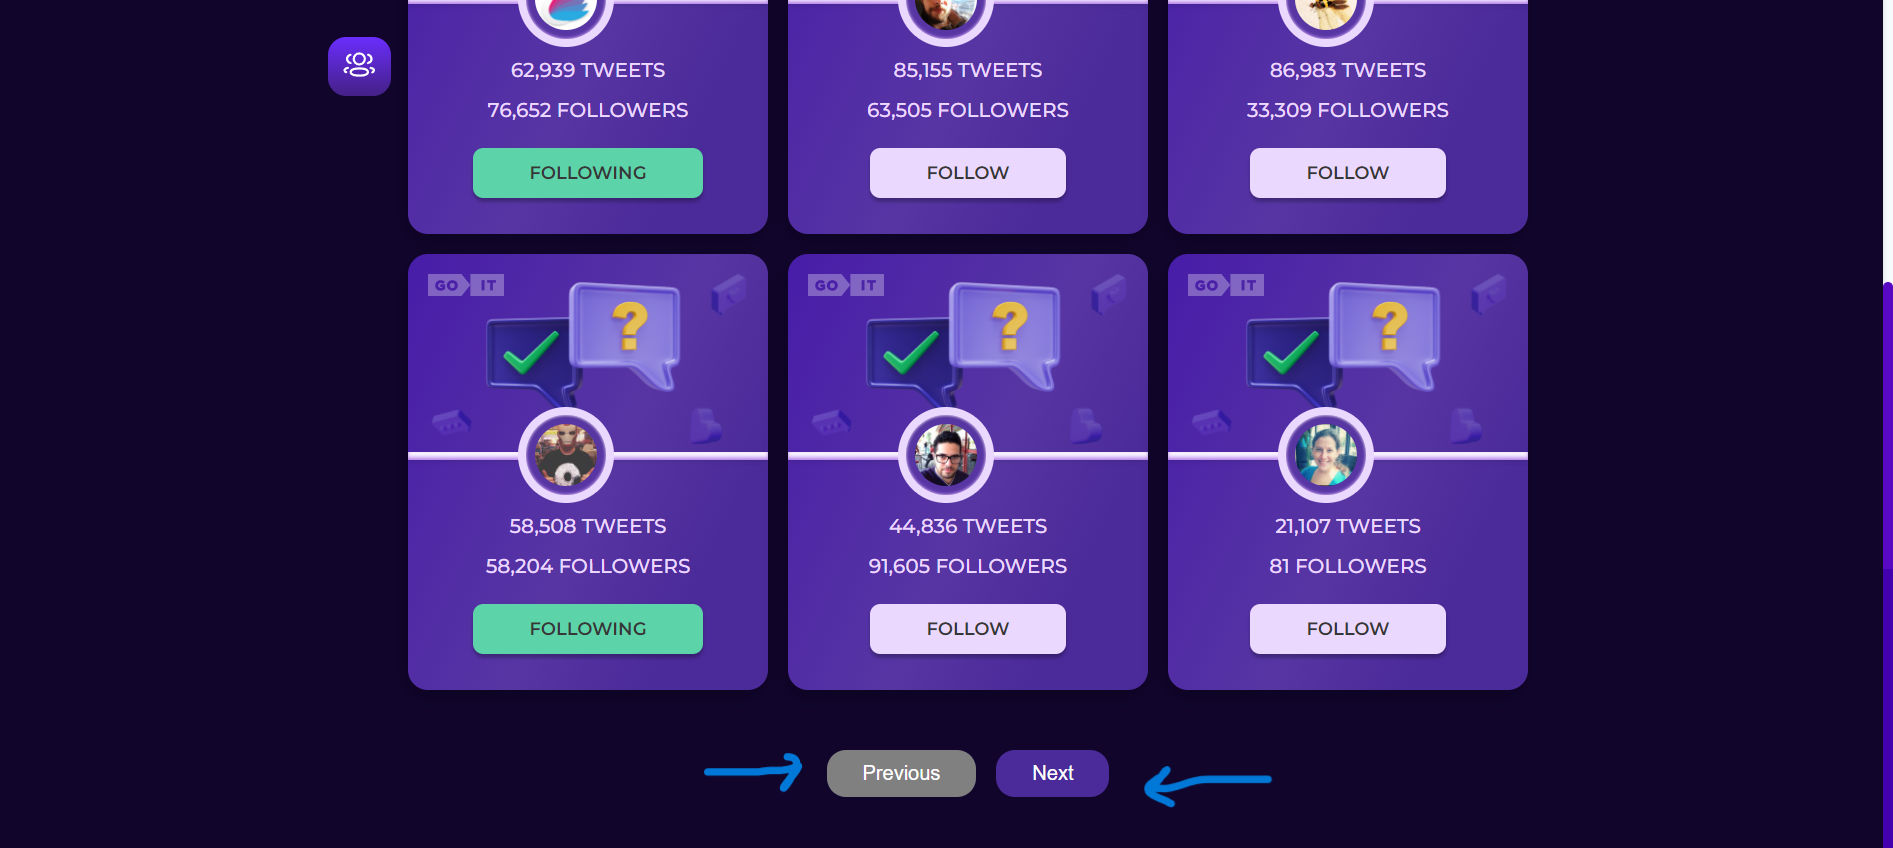
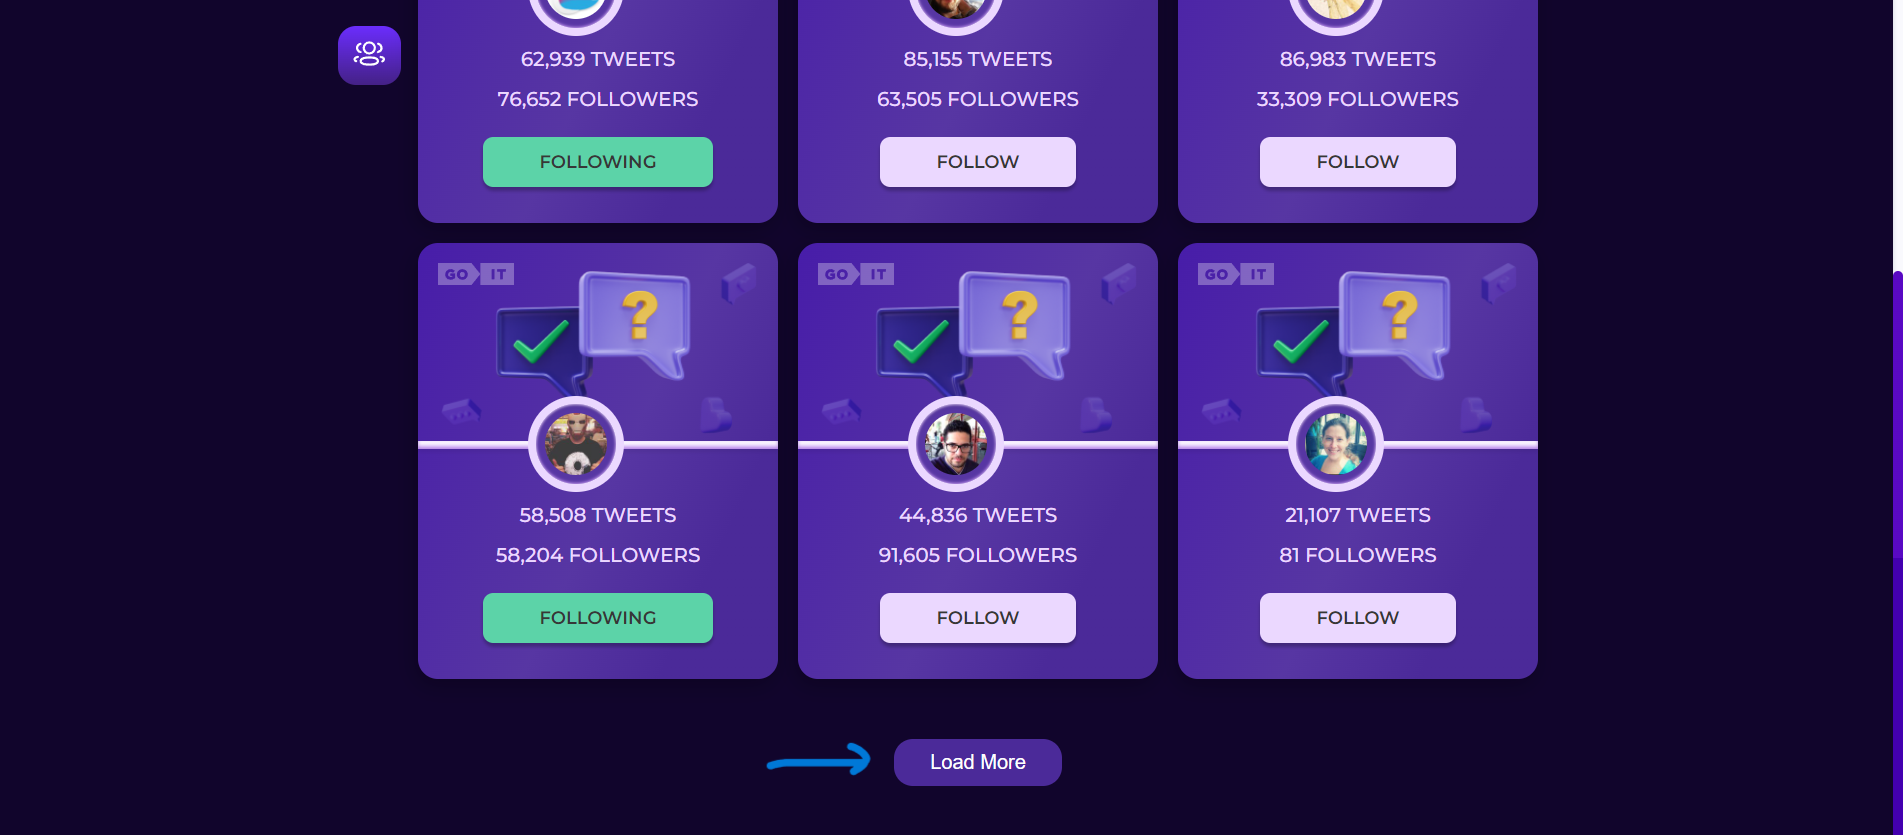
read me

diff --git a/README.md b/README.md
@@ -13,5 +13,5 @@ Click on the button in the additional menu (menu on the right) or on the "Go to 
 By clicking on the "Filter tweets" button, you can filter all tweets by who you are following and who you are not yet following.
 By clicking on the "Back" button, you can return to the Home page
 ![How to use](./assets/tweets.png)
-By clicking "Previous" you will see the previous ones. And by clicking on the "Newt" button, you can see the following users.
+By clicking on the "Load More" button, you can see the following users.
 ![How to use](./assets/pagination.png)
